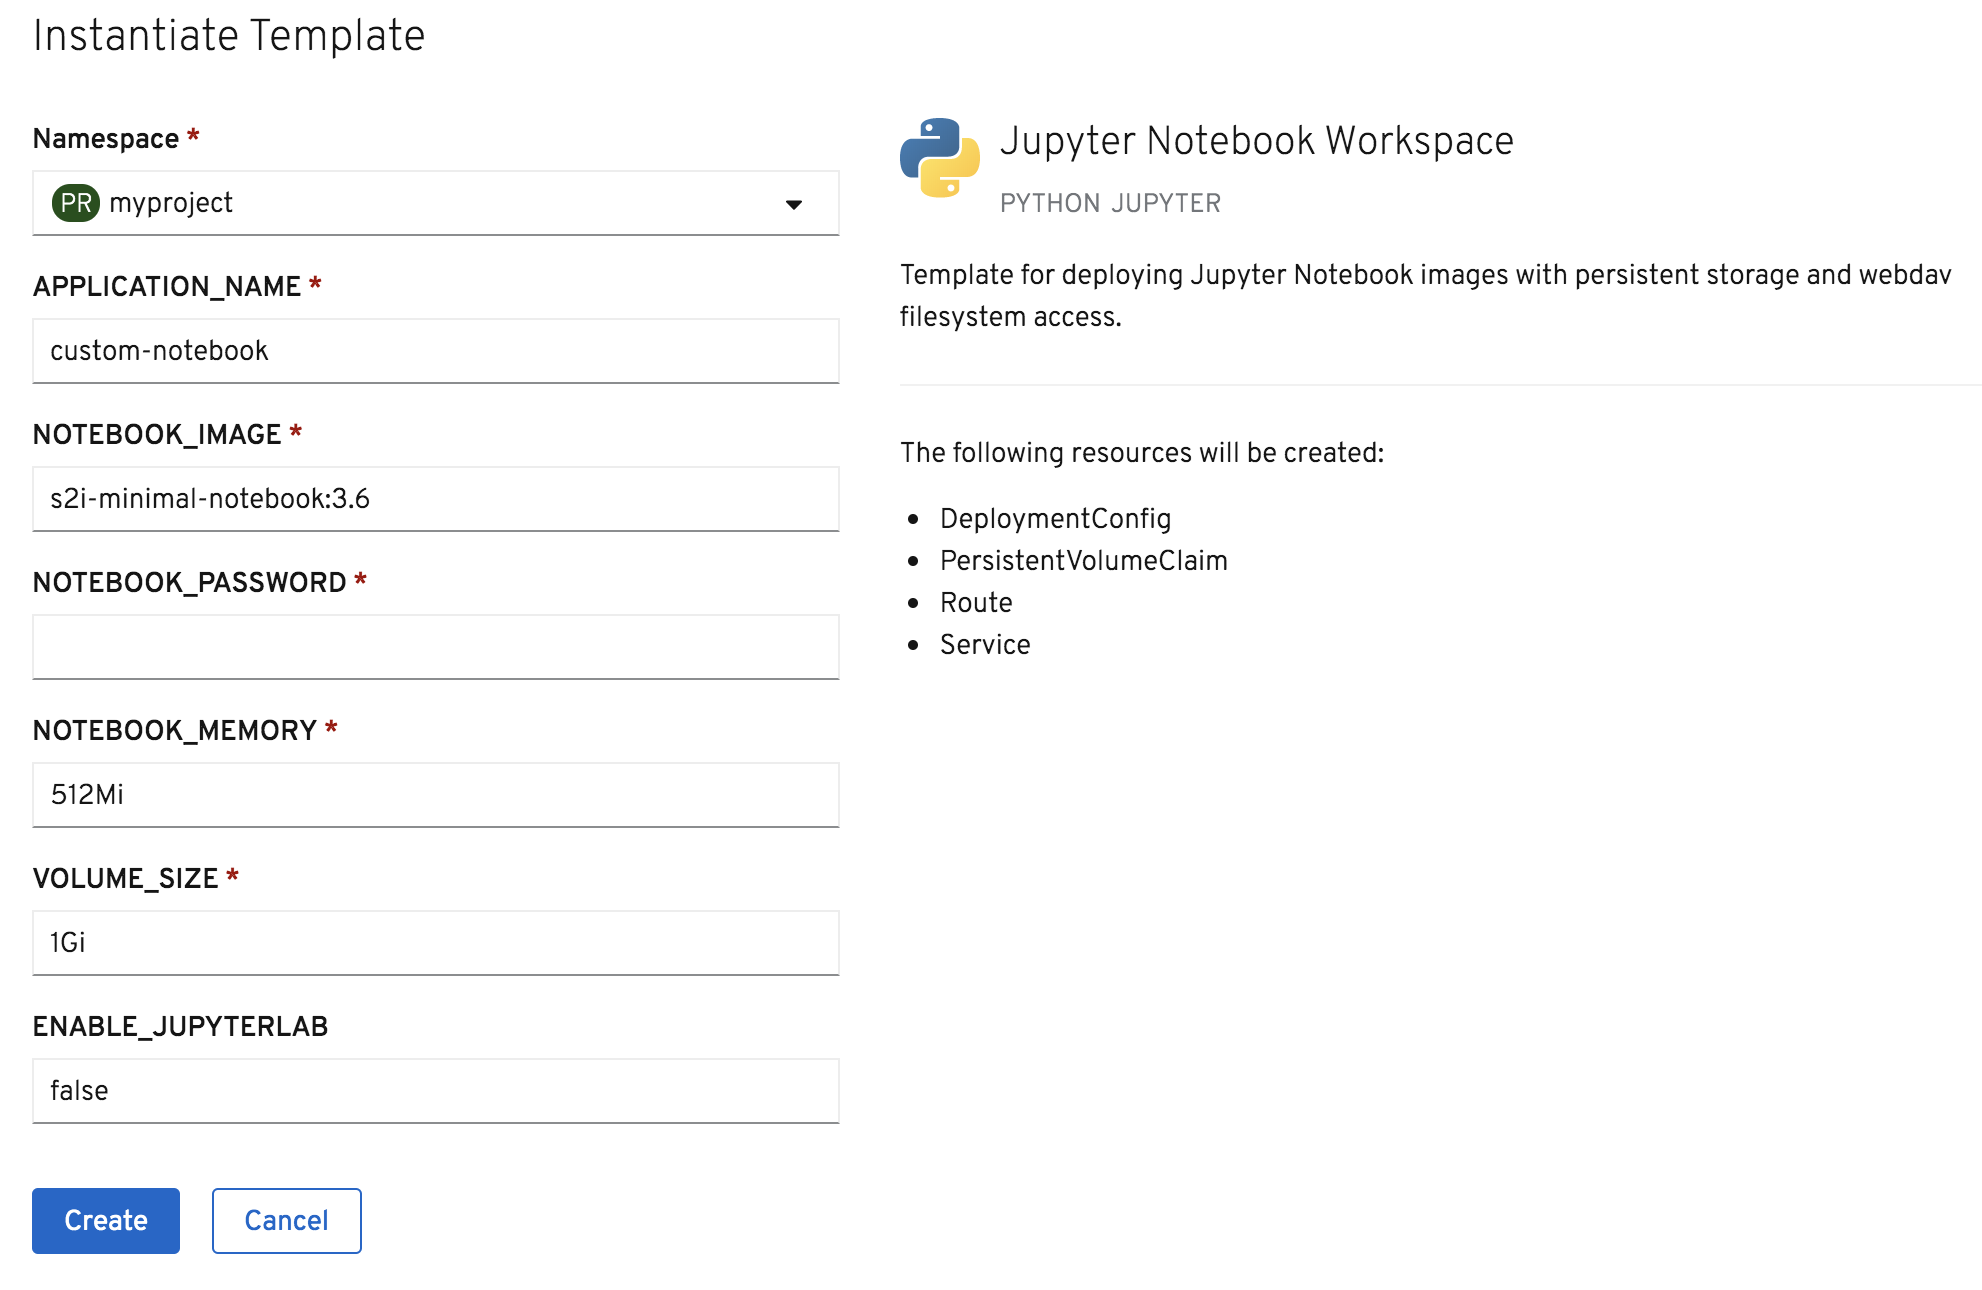
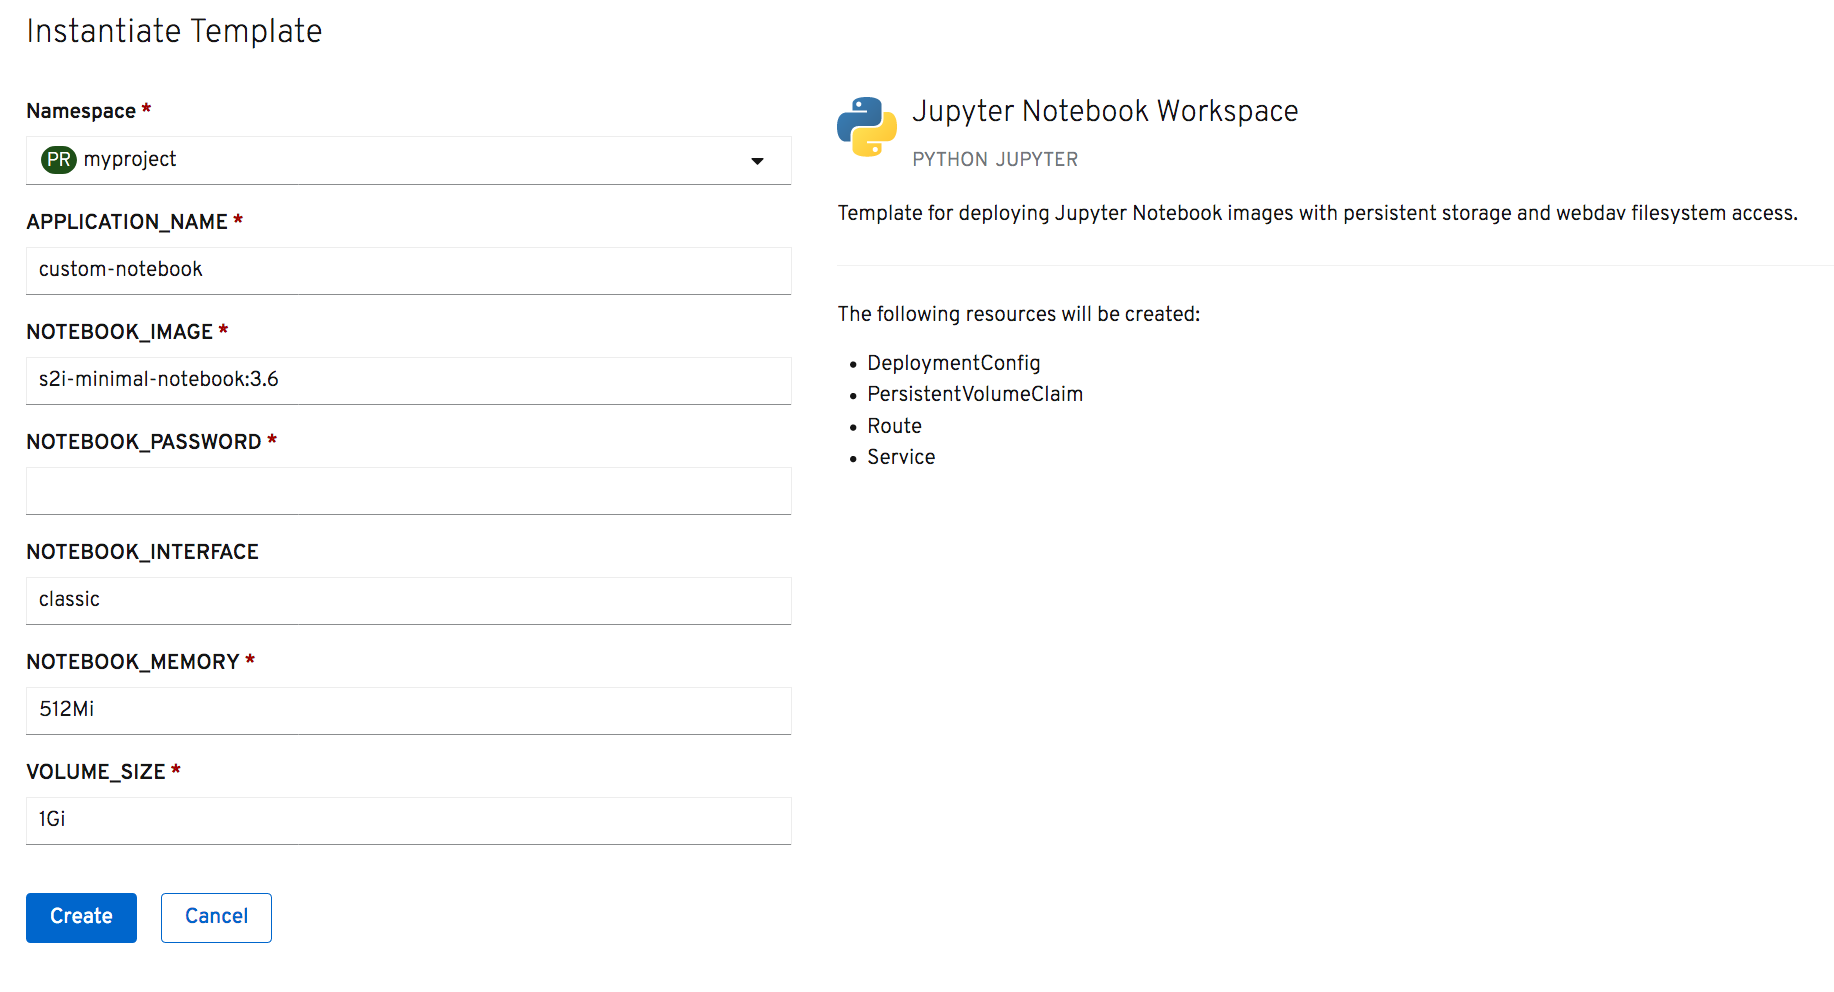
Update template parameters for enabling JupyterLab interface.

diff --git a/jupyter/jupyter-workspace-42/04-deploying-the-jupyter-workspace.md b/jupyter/jupyter-workspace-42/04-deploying-the-jupyter-workspace.md
@@ -15,9 +15,9 @@ The purpose of the template parameters are:
 * ``APPLICATION_NAME`` - The name of the deployment.
 * ``NOTEBOOK_IMAGE`` - The name of the image stream for the Jupyter notebook image, and the version tag, which you wish to use.
 * ``NOTEBOOK_PASSWORD`` - The password used to protect access to the Jupyter notebook. This cannot be left empty.
+* ``NOTEBOOK_INTERFACE`` - The Jupyter notebook web interface to use. Setting this to ``lab`` will enable the JupyterLab web interface.
 * ``NOTEBOOK_MEMORY`` - The maximum amount of memory the Jupyter noteboook deployment is allowed to use.
 * ``VOLUME_SIZE`` - The size of the persistent volume used to store files for the persistent workspace.
-* ``ENABLE_JUPYTERLAB`` - Whether the JupyterLab web interface, rather than the classic web interface, is enabled.
 
 In the ``NOTEBOOK_PASSWORD`` field enter a password of ``secret``{{copy}}, and then click on _Create_. The _Template Instance Overview_ view for the deployment will be displayed.
 
